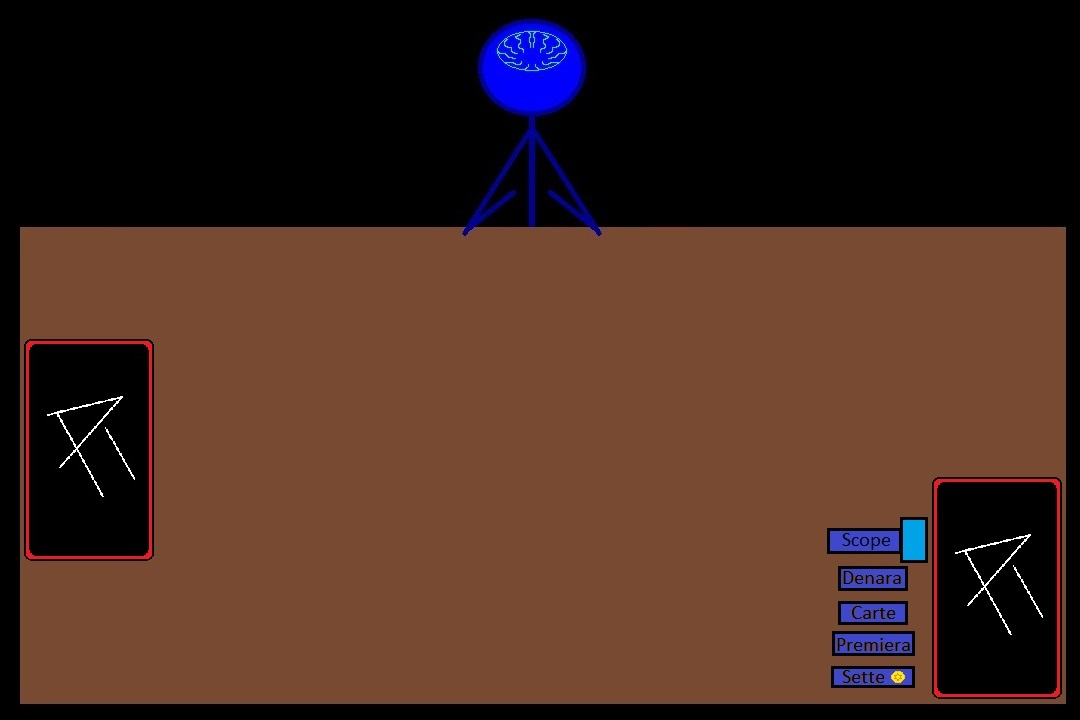
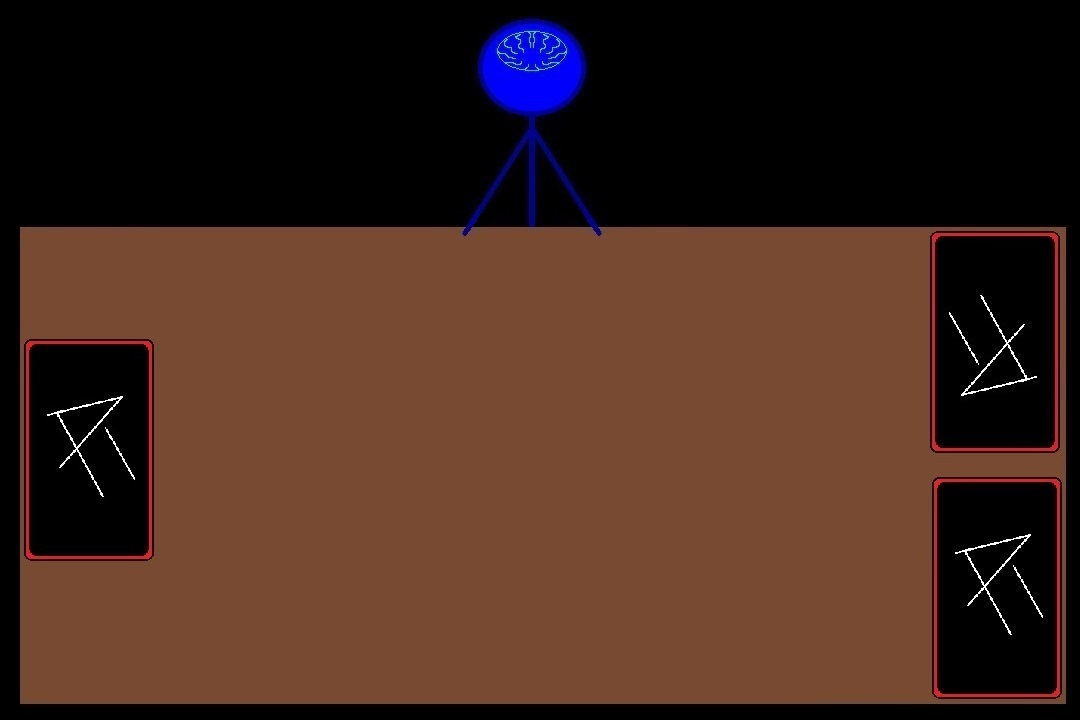
- Improvements in UI; - Improvements in animations; - Improvements exploiting usage by reference;

diff --git a/src/Game/Entities/Players/AI_Player.py b/src/Game/Entities/Players/AI_Player.py
@@ -1,16 +1,15 @@
 from src.Game.Entities.Players.Player import Player
+from src.Game.Entities.Cards.TableCards import TableCards
 from src.AI import RandomBehaviour
 from src.Animations.AI_Player import *
 import threading
 
 
 class AI(Player):
-    def __init__(self):
-        super().__init__("R.F.J.8")
-        self.selected_card = None
+    def __init__(self, table_cards: TableCards):
+        super().__init__("R.F.J.8", 230)
         
-        idle_animation = IdleAnimation()
-        animations = {"waiting": idle_animation,
+        animations = {"waiting": IdleAnimation(),
                       "choice": ChoiceAnimation(),
                       "take": TakeAnimation(),
                       "throw": ThrowAnimation()}
@@ -18,20 +17,22 @@ class AI(Player):
         
         self.state = "waiting"  # the player is waiting for his turn to play
         self.is_ready_to_make_a_move = False
-        self.AI = RandomBehaviour()
+        self.AI = RandomBehaviour(table_cards)
         self.thinking_thread: threading.Thread = threading.Thread(target=self.AI.choose_the_move)
-
+    
+    def take_cards_from_deck(self, cards):
+        super(AI, self).take_cards_from_deck(cards)
+        self.AI.cards_in_hand = cards
+        
     def end_turn(self):
         super(AI, self).end_turn()
         self.is_ready_to_make_a_move = False
         
-    def set_up_for_thinking(self, table_cards):
-        self.AI.table_cards = table_cards
+    def set_up_for_thinking(self):
         self.state = "start"
         self.thinking_thread: threading.Thread = threading.Thread(target=self.AI.choose_the_move)
 
     def start_choosing_process(self):
-        self.AI.hand_cards = self.cards_in_hand
         self.thinking_thread.start()
 
     def update(self, dt):
@@ -49,4 +50,5 @@ class AI(Player):
         self.animations[self.state].update(dt, self.cards_in_hand)
     
     def draw(self, screen):
+        super(AI, self).draw(screen)
         self.animations[self.state].draw(screen)

diff --git a/src/AI/Random.py b/src/AI/Random.py
@@ -1,25 +1,24 @@
 import random
-
 from src.AI.BaseThinking import BaseThinking
 from src.Game.Matches.scopa_functions import taking_is_possible, get_index_combinations
 
 
 class RandomBehaviour(BaseThinking):
-	def __init__(self):
-		super().__init__()
+	def __init__(self, table_cards):
+		super().__init__(table_cards)
 	
 	# generates all possible ways a specific card can take
 	def generate_all_possible_taking_moves(self):
-		all_combinations = get_index_combinations(self.table_cards)
-		piked_card_number = self.hand_cards[self.chosen_hand_card_index].number
+		all_combinations = get_index_combinations(self.table_cards.cards)
+		piked_card_number = self.cards_in_hand[self.chosen_hand_card_index].number
 		combinations = []
 		for combination in all_combinations:
-			if taking_is_possible(piked_card_number, [self.table_cards[c_index].number for c_index in combination]):
+			if taking_is_possible(piked_card_number, [self.table_cards.cards[c_index].number for c_index in combination]):
 				combinations.append(combination)
 		return combinations
 		
 	def choose_the_move(self):
-		self.chosen_hand_card_index = random.randint(0, len(self.hand_cards)-1)  # pick the hand-card to use
+		self.chosen_hand_card_index = random.randint(0, len(self.cards_in_hand) - 1)  # pick the hand-card to use
 		all_taking_moves = self.generate_all_possible_taking_moves()
 		
 		if len(all_taking_moves) == 0:
@@ -28,5 +27,5 @@ class RandomBehaviour(BaseThinking):
 			self.move_type = "take"
 			indexes_of_cards_to_take = random.choice(all_taking_moves)
 			for c_index in indexes_of_cards_to_take:
-				self.table_cards[c_index].active = True
+				self.table_cards.cards[c_index].active = True
 		self.has_chosen = True  # must be done last because of the threading system

diff --git a/src/Game/PlayersLogicManager/Human_VS_AI_LogicManager.py b/src/Game/PlayersLogicManager/Human_VS_AI_LogicManager.py
@@ -77,7 +77,6 @@ class Human_VS_AI_Manager(PlayersManager):
 	def manage_mouse_events(self):
 		# player has chosen a card in his hand
 		if (card_index := self.player1.mouse_is_on_card(self.mouse_position)) > -1:
-			print(1)
 			# changing mode in order to enable the player to take cards on the table
 			self.player1.toggle_card(card_index)
 			self.table_cards.disable_all_cards()  # cards selected on the table are deselected
@@ -90,7 +89,7 @@ class Human_VS_AI_Manager(PlayersManager):
 		# 2- activate the cards on the table that would be taken using the selected card]
 		# player has chosen a card on the table
 		elif self.player1.state == "take":
-			self.table_cards.activate_cards(self.mouse_position)
+			self.table_cards.activate_clicked_card(self.mouse_position)
 			if len([1 for card in self.table_cards.cards if card.active]) == 0:
 				self.apply_throwing_rules()
 			else:
@@ -120,7 +119,7 @@ class Human_VS_AI_Manager(PlayersManager):
 		
 		# the AI player should not be waiting anymore since its turn arrived, and should start the process to make his move
 		if self.player2.state == "waiting":
-			self.player2.set_up_for_thinking(self.table_cards.cards)
+			self.player2.set_up_for_thinking()
 		# if the process of choosing a move to make has ended, it's time to apply it
 		elif self.player2.is_ready_to_make_a_move:
 			self.apply_AI_chosen_move()

diff --git a/src/Animations/AI_Player/Idle.py b/src/Animations/AI_Player/Idle.py
@@ -1,9 +1,16 @@
+import pygame.draw
+
 from src.Animations.AI_Player.Base import PlayerAnimation
 
 
 class IdleAnimation(PlayerAnimation):
 	def __init__(self):
 		super().__init__()
+	
+	# when the player has *key* cards the end of the arm (hand position) is drawn at the coordinates *value*
+	# remember the mirror effect when viewing the arm's side (left-> right and right -> left)
+	right_arm_coo = {0: (520, 188), 1:  (520, 188), 2:  (510, 190), 3:  (500, 192)}
+	left_arm_coo = {0: (540, 188), 1: (540, 188), 2:  (550, 190), 3:  (560, 192)}
 	
 	def reset(self):
 		pass
@@ -13,3 +20,7 @@ class IdleAnimation(PlayerAnimation):
 	
 	def draw(self, screen):
 		super().draw(screen)
+		# right arm
+		pygame.draw.line(screen, self.body_color, self.right_elbow_coo, self.right_arm_coo[self.len_cards_in_hand], 6)
+		# left arm
+		pygame.draw.line(screen, self.body_color, self.left_elbow_coo, self.left_arm_coo[self.len_cards_in_hand], 6)

diff --git a/src/Game/Entities/Players/Player.py b/src/Game/Entities/Players/Player.py
@@ -1,18 +1,23 @@
 from src.Game.Entities.Cards.Card import Card
+from pygame import draw
 
 
 class Player:
-    def __init__(self, name):
+    def __init__(self, name, taken_cards_y_coo):
         self.total_score: int = 0
         self.match_score: int = 0
         self.name: str = name
         self.state = "waiting"
         self.cards_in_hand: [Card] = []
         self.cards_taken: [Card] = []
+        self.cards_taken_y_coo = taken_cards_y_coo
         self.selected_card = None
 
     def count_score(self):
         pass
+
+    def take_cards_from_deck(self, cards: [Card]):
+        self.cards_in_hand = cards
 
     def take_cards(self, cards):
         # points should be updated here
@@ -32,4 +37,5 @@ class Player:
         self.state = "waiting"
 
     def draw(self, screen):
-        pass
+        if not self.cards_taken:
+            draw.rect(screen, (120, 74, 50), (930, self.cards_taken_y_coo, 135, 227))

diff --git a/src/Game/Entities/Cards/TableCards.py b/src/Game/Entities/Cards/TableCards.py
@@ -15,7 +15,7 @@ class TableCards:
 				cards_to_take.append(self.cards.pop(i))
 		return cards_to_take
 
-	def activate_cards(self, mouse_position):
+	def activate_clicked_card(self, mouse_position):
 		for card in self.cards:
 			if card.mouse_is_inside(mouse_position):
 				card_was_activated = not card.active  # reverts the state of the card to its opposite
@@ -26,7 +26,7 @@ class TableCards:
 				card.active = card_was_activated
 				return card_was_activated
 		return False  # if it reaches this point, no card was activated
-
+	
 	def disable_all_cards(self):
 		for card in self.cards:
 			card.active = False
@@ -60,4 +60,4 @@ class TableCards:
 				card.update(dt, color_code)
 		
 	def draw(self, screen):
-		[carta.draw(screen) for carta in self.cards]
+		[card.draw(screen) for card in self.cards]

diff --git a/src/Animations/AI_Player/Base.py b/src/Animations/AI_Player/Base.py
@@ -6,16 +6,23 @@ from src.Globals.Variables.Cards import CARD_SCALES
 class PlayerAnimation:
 	card_in_hand_image = None
 	cards_in_hand = []
+	len_cards_in_hand = 3
+	body_color = (4, 5, 132)
+	left_elbow_coo = (602, 235)
+	right_elbow_coo = (464, 235)
 	
 	def __init__(self):
 		self.has_ended = True  # must change to false
 		self.card_in_hand_image = scale(load("assets/retro/1.png").convert_alpha(), CARD_SCALES["player-ai"])
+		self.time_lapse = 0  # amount of time passed since the beginning of the animation
 	
 	def reset(self):
+		self.time_lapse = 0
 		self.has_ended = False
 	
 	def update(self, dt, cards):
 		self.cards_in_hand = cards
+		self.len_cards_in_hand = len(self.cards_in_hand)
 	
 	def draw(self, screen):
 		if len(self.cards_in_hand) == 3:

diff --git a/src/Game/Matches/Match.py b/src/Game/Matches/Match.py
@@ -26,9 +26,10 @@ class Match:
 	# ------------------------------------------------ AUXILIARY -------------------------------------------------------
 	def give_cards(self):
 		# 1- animation of player 1 getting his cards into his hands
-		self.player1.cards_in_hand = self.deck.draw_cards("player")
+		self.player1.take_cards_from_deck(self.deck.draw_cards("player"))
 		# 2- animation of player 2 getting his cards into his hands
-		self.player2.cards_in_hand = self.deck.draw_cards("player")
+		self.player2.take_cards_from_deck(self.deck.draw_cards("player"))
+		print([str(card) for card in self.player2.cards_in_hand])
 		
 	#  --------------------------------------------- MAIN FUNCTIONS ----------------------------------------------------
 	def start(self):

diff --git a/src/AI/MiniMax.py b/src/AI/MiniMax.py
@@ -6,7 +6,7 @@ class MiniMax(BaseThinking):
 		super().__init__()
 	
 	def choose_the_move(self):
-		move, best_move = self.minmax(self.hand_cards, self.table_cards, depth=6, is_maximizing_player=True)
+		move, best_move = self.minmax(self.cards_in_hand, self.table_cards, depth=6, is_maximizing_player=True)
 		self.has_chosen = True
 		self.move_type = "waiting"  # should be "take" or "throw"
 	
@@ -24,7 +24,7 @@ class MiniMax(BaseThinking):
 		pass
 	
 	def minmax(self, player_hand, table_cards, depth, is_maximizing_player):
-		if depth == 0 or len(self.hand_cards) == 0:
+		if depth == 0 or len(self.cards_in_hand) == 0:
 			return self.evaluate_state(player_hand, table_cards), None
 		
 		if is_maximizing_player:

diff --git a/src/Game/Entities/Players/Human_Player.py b/src/Game/Entities/Players/Human_Player.py
@@ -1,11 +1,9 @@
 from src.Game.Entities.Players.Player import Player
-from pygame import draw
 
 
 class Human(Player):
 	def __init__(self, name):
-		super().__init__(name)
-		self.selected_card = None
+		super().__init__(name, 476)
 	
 	# returns the index of the card where the mouse is hovering. Returns -1 if no card is being hovered over
 	def mouse_is_on_card(self, mouse_position):
@@ -30,7 +28,6 @@ class Human(Player):
 				card.update(dt, color_code)
 	
 	def draw(self, screen):
-		if not self.cards_taken:
-			draw.rect(screen, (120, 74, 50), (930, 476, 135, 227))
+		super(Human, self).draw(screen)
 		for i, card in enumerate(self.cards_in_hand):
 			card.draw(screen)

diff --git a/src/AI/BaseThinking.py b/src/AI/BaseThinking.py
@@ -1,9 +1,13 @@
+from src.Game.Entities.Cards.TableCards import TableCards
+from src.Game.Entities.Cards.Card import Card
+
+
 class BaseThinking:
-	def __init__(self):
+	def __init__(self, table_cards: TableCards):
 		self.has_chosen = False
-		self.move_type = "waiting"  # "taking" or "throwing"
-		self.table_cards = []
-		self.hand_cards = []
+		self.move_type = ""  # "take" or "throw"
+		self.table_cards = table_cards
+		self.cards_in_hand: [Card] = []
 		self.chosen_hand_card_index = None  # the index of the card chosen to be played (0,1 or 2)
 	
 	def choose_the_move(self):

diff --git a/src/Animations/AI_Player/Take.py b/src/Animations/AI_Player/Take.py
@@ -12,4 +12,12 @@ class TakeAnimation(PlayerAnimation):
 		super().update(dt, cards)
 	
 	def draw(self, screen):
-		pass
+		# screen.blit(self.card_in_hand_image, (480, 150))
+		# screen.blit(self.card_in_hand_image, (495, 150))
+		# screen.blit(self.card_in_hand_image, (512, 150))
+		if len(self.cards_in_hand) == 3:
+			screen.blit(self.card_in_hand_image, (510, 150))
+			screen.blit(self.card_in_hand_image, (540, 150))
+		elif len(self.cards_in_hand) == 2:
+			screen.blit(self.card_in_hand_image, (530, 150))
+			
